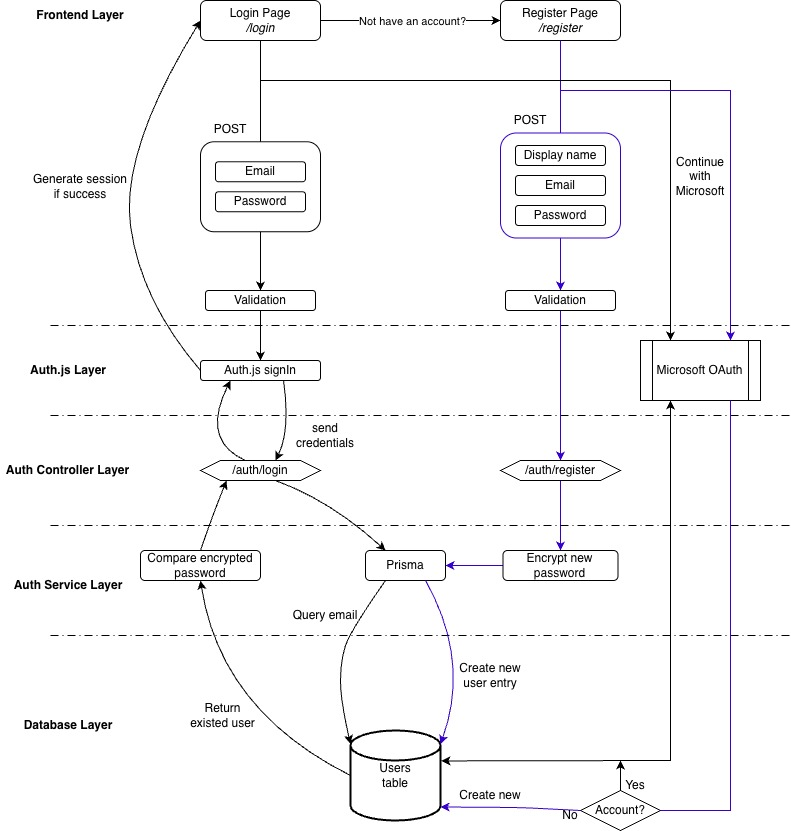
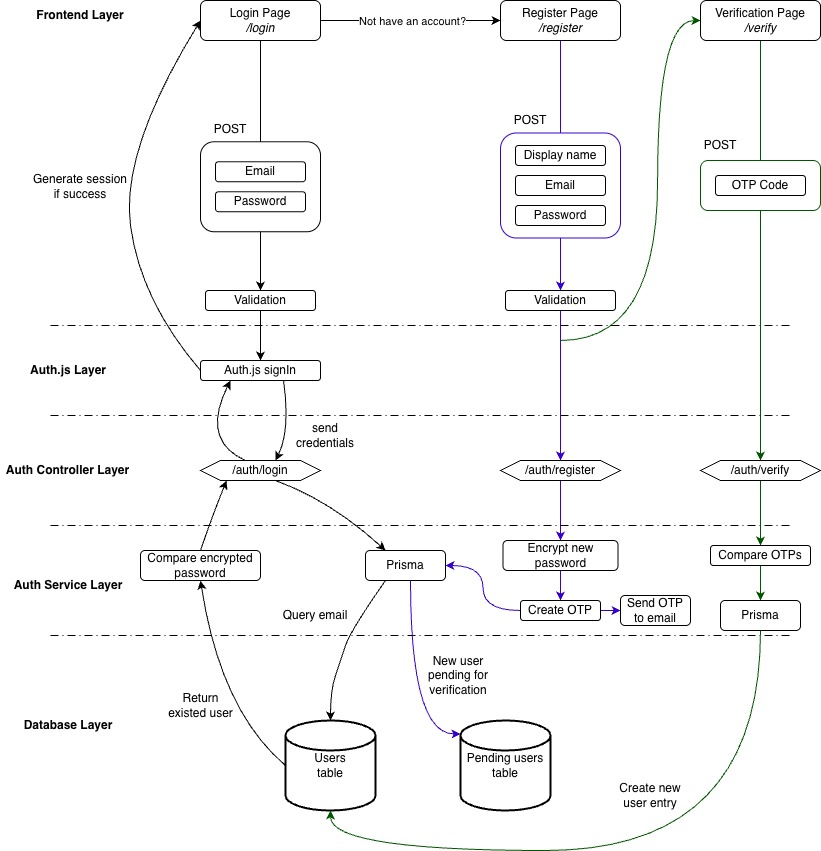
Documentation Updated

diff --git a/docs/documentation.md b/docs/documentation.md
@@ -12,6 +12,10 @@
 *Production*
 https://nus-savnac.vercel.app/
 
+*For testing purposes, please use the below account*
+*Email: test@gmail.com*
+*Password: 123456*
+
 ## 1. Introduction
 
 ### 1.1 Motivation
@@ -73,7 +77,7 @@ Ultimately, the project seeks to reduce cognitive load associated with academic 
 The overall architecture of the system is shown below.
 
 <p align="center">
-  <img src="images/overall_arch.jpg" width="900"/>
+  <img src="images/overall-arch.jpg" width="900"/>
 </p>
 
 <p align="center">
@@ -133,8 +137,6 @@ User data, tasks, events, folders, and course information are stored in a Postgr
   * *Credentials (Username and Password)*
     Provides traditional account-based authentication, allowing users to securely register and log in using their email and password.
 
-  * *Microsoft OAuth*
-    Enables users to authenticate using their Microsoft accounts, providing a convenient and secure single sign-on experience.
 
 #### Deployment
 
@@ -169,21 +171,21 @@ The design for authentication system is shown as below.
   <em>Figure 2. Authentication System Design</em>
 </p>
 
-The authentication system is built around **Auth.js** and supports both *credentials-based authentication* and *Microsoft OAuth*. Authentication responsibilities are separated across the frontend, Auth.js provider layer, backend services, and database layer to improve maintainability and security.
+This authentication design implements a secure credentials (email and password) registration and login system using a layered architecture. Users can sign in through the login page, where credentials are validated and authenticated against stored account data.
 
-For credentials authentication, user information is validated and verified against encrypted passwords stored in the database before a session is created. For Microsoft OAuth, user identity is delegated to Microsoft's authentication service, and new user records are automatically created when necessary. This design provides a flexible authentication architecture while maintaining a consistent session management workflow.
+For new registrations, user information is validated, the password is encrypted, and a one-time password (OTP) is generated and sent via email. Registration data is temporarily stored in a `pending users` table until OTP verification is completed. Once verified, a new user record is created in the main `users` table. The system separates responsibilities across frontend, authentication middleware, controller, service, and database layers, improving maintainability, scalability, and security.
 
 ## 3. Feature Implementation
 ### 3.1. User Authentication
 #### 3.1.1. Feature Overview
-The User Authentication feature enables users to securely access and manage their accounts within ***NUS Savnac***. The system supports both traditional credentials-based authentication and Microsoft OAuth, providing users with multiple sign-in options.
-- The credentials-based authentication provides users with easy access method to *NUS Savnac* by just entering email and password.
-- Microsoft OAuth method allows NUS students to login with their NUS Outlook account.
+The **User Authentication** feature enables users to securely access and manage their accounts within ***NUS Savnac***. The system is built on a credentials-based authentication mechanism, allowing users to sign up and log in using their email and password.
 
-Authentication is required before accessing protected features such as course management dashboard, scheduling, and task tracking.
+To enhance security and ensure the validity of user accounts, the registration process includes email-based *One-Time Password (OTP)* verification. Users are required to verify their email address before completing the account creation process.
+
+Authentication is a prerequisite for accessing protected features within the system, including the course management dashboard, scheduling tools, and task tracking functionalities.
 
 <p align="center">
-  <img src="images/login-screenshot.jpeg" width="900"/>
+  <img src="images/login-page.jpeg" width="900"/>
 </p>
 
 <p align="center">
@@ -192,18 +194,34 @@ Authentication is required before accessing protected features such as course ma
 
 
 <p align="center">
-  <img src="images/register-screenshot.jpeg" width="900"/>
+  <img src="images/register-page.jpeg" width="900"/>
 </p>
 
 <p align="center">
   <em>Figure 3.2. Register Page</em>
 </p>
 
+<p align="center">
+  <img src="images/login-page.jpeg" width="900"/>
+</p>
+
+<p align="center">
+  <em>Figure 3.1. Login Page</em>
+</p>
+
+
+<p align="center">
+  <img src="images/verification-page.jpeg" width="900"/>
+</p>
+
+<p align="center">
+  <em>Figure 3.2. Email Verification Page</em>
+</p>
+
 #### 3.1.2. Key Functionalities
 - User registration by email and password
+- Email OTP verification
 - User login using emal and password
-- Automatic account registration for first-time Microsoft OAuth users
-- User login using Microsoft OAuth
 - Secure session management by Auth.js
 
 #### 3.1.3. Technical Implementation
@@ -225,31 +243,23 @@ The credentials authentication workflow is implemented using Auth.js, PostgreSQL
 
 * Users provide a display name, email address, and password through the registration form.
 * Input validation is performed to ensure all required fields are present and satisfy security requirements.
+* Email is restricted to be NUS email, ending with @u.nus.edu
 * Passwords must:
-
   * Contain at least 8 characters
   * Include at least one uppercase letter
   * Include at least one lowercase letter
   * Include at least one numeric character
   * Include at least one special character
+* The registration request is submitted to the `/auth/register` endpoint.
 * The backend verifies that the email address is not already associated with an existing account.
-* The password is hashed before being persisted to the database.
-* A new user record is created in the `users` table through Prisma.
-* Upon successful registration, users are redirected to the login page to authenticate using their newly created credentials.
+* The password is securely hashed before any user data is persisted.
+* A One-Time Password (OTP) is generated for email verification.
+* The OTP is sent to the user's email address, while the registration information is temporarily stored in the `pending users` table through Prisma.
+* Users are redirected to the verification page and must provide the received OTP.
+* The verification request is submitted to the `/auth/verify` endpoint.
+* The backend validates the submitted OTP against the corresponding verification record stored in the database.
+* Upon successful verification, the pending registration record is promoted to a permanent account by creating a new entry in the `users` table.
+* If verification fails or the OTP has expired, the account creation process is not completed and the user must request a new verification code.
 
-##### Microsoft OAuth Authentication
 
-In addition to credentials-based authentication, the platform supports Microsoft OAuth through Auth.js. This provides a passwordless authentication mechanism and simplifies account onboarding for NUS students.
 
-**OAuth Authentication Flow**
-
-* Users may initiate authentication through the **Continue with Microsoft** option available on both the login and registration pages.
-* Auth.js redirects users to Microsoft's OAuth authorization endpoint.
-* User identity verification is delegated to Microsoft's authentication infrastructure.
-* After successful authorization, Microsoft returns the user's profile information to Auth.js.
-* The system checks whether an account associated with the authenticated email already exists in the database.
-* If an account exists, a new session is established immediately.
-* If no account is found, the system automatically provisions a new user record in the `users` table before creating a session.
-* Users are then redirected to the application dashboard.
-
-This hybrid authentication architecture combines traditional credentials-based authentication with modern OAuth-based authentication, providing both flexibility and convenience while maintaining a consistent session management workflow across the platform.
